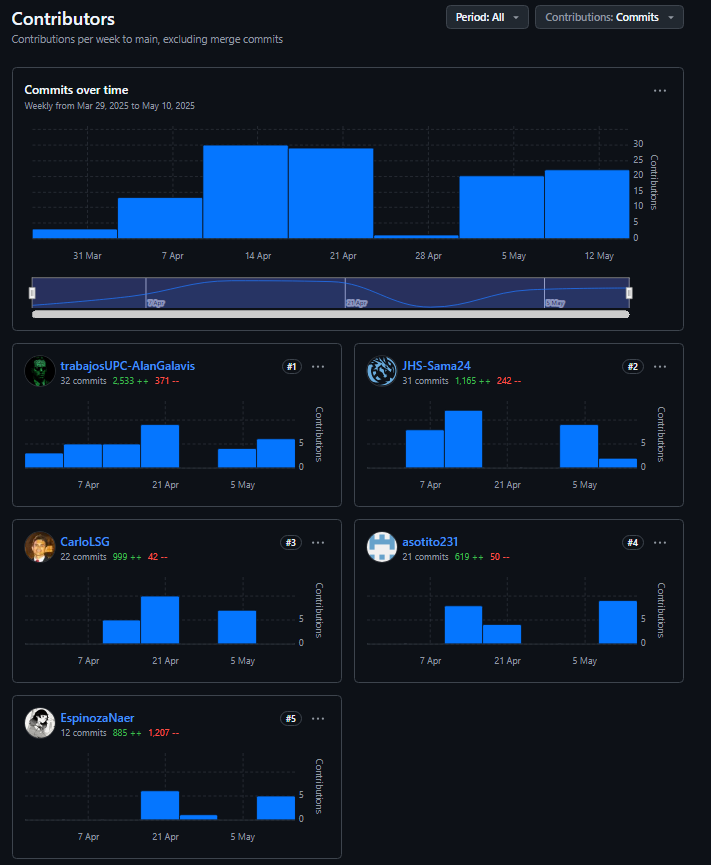
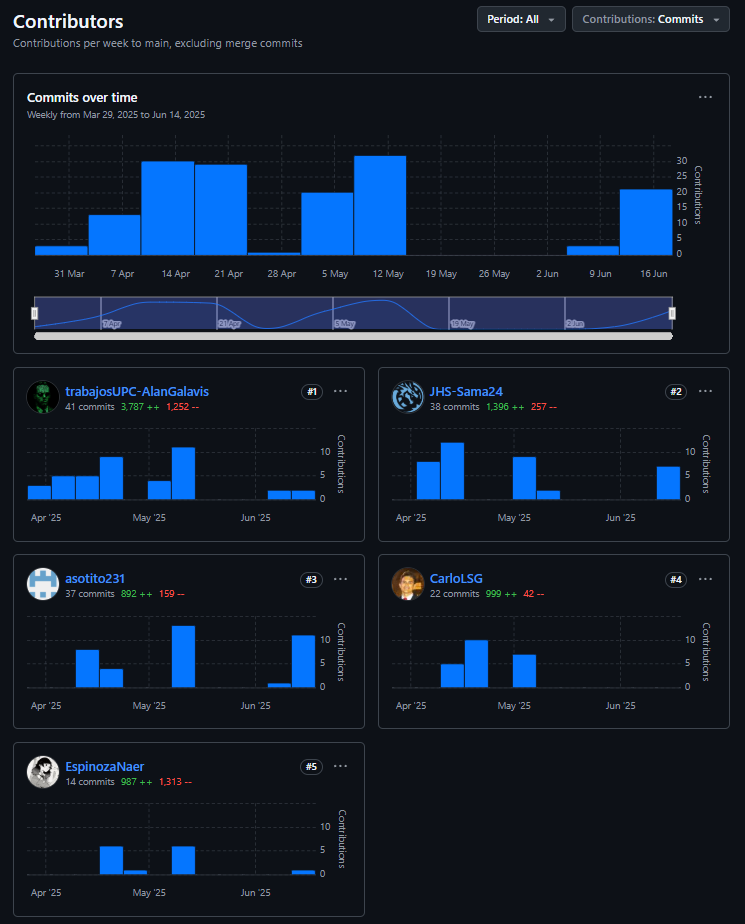
feat: Add collaboration insights

diff --git a/README.md b/README.md
@@ -117,11 +117,15 @@ A continuación, se presentan evidencias de la colaboración de los integrantes 
 
 **TP1:**
 
-<img src="assets/images/collaboration_insights/tb2/collaboration_graph_tb2.png" alt="TP1 collaboration graph" />
+<img src="assets/images/collaboration_insights/tp1/collaboration_graph_tp1.png" alt="TP1 collaboration graph" />
 
-<img src="assets/images/collaboration_insights/tb2/contributors_graph_tb2.png" alt="TP1 contributors graph" />
+<img src="assets/images/collaboration_insights/tp1/contributors_graph_tp1.png" alt="TP1 contributors graph" />
 
 **TB2:**
+
+<img src="assets/images/collaboration_insights/tb2/collaboration_graph_tb2.png" alt="TB2 collaboration graph" />
+
+<img src="assets/images/collaboration_insights/tb2/contributors_graph_tb2.png" alt="TB2 contributors graph" />
 
 Adicionalmente, GitHub presenta un timeline de las ramas principales y los procesos de merge a los que se han sometido. Todas las ramas se
 crearon tomando en cuenta el diseño de GitFlow para una buena organización cuando se usa un software de control de versiones. Se
@@ -142,9 +146,11 @@ explican las ramas más prominentes:
 
 **TP1:**
 
-<img src="assets/images/collaboration_insights/tb2/network_graph_tb2.png" alt="TP1 network graph" />
+<img src="assets/images/collaboration_insights/tp1/network_graph_tp1.png" alt="TP1 network graph" />
 
 **TB2:**
+
+<img src="assets/images/collaboration_insights/tb2/network_graph_tb2.png" alt="TB2 network graph" />
 
 # Contenido
 
